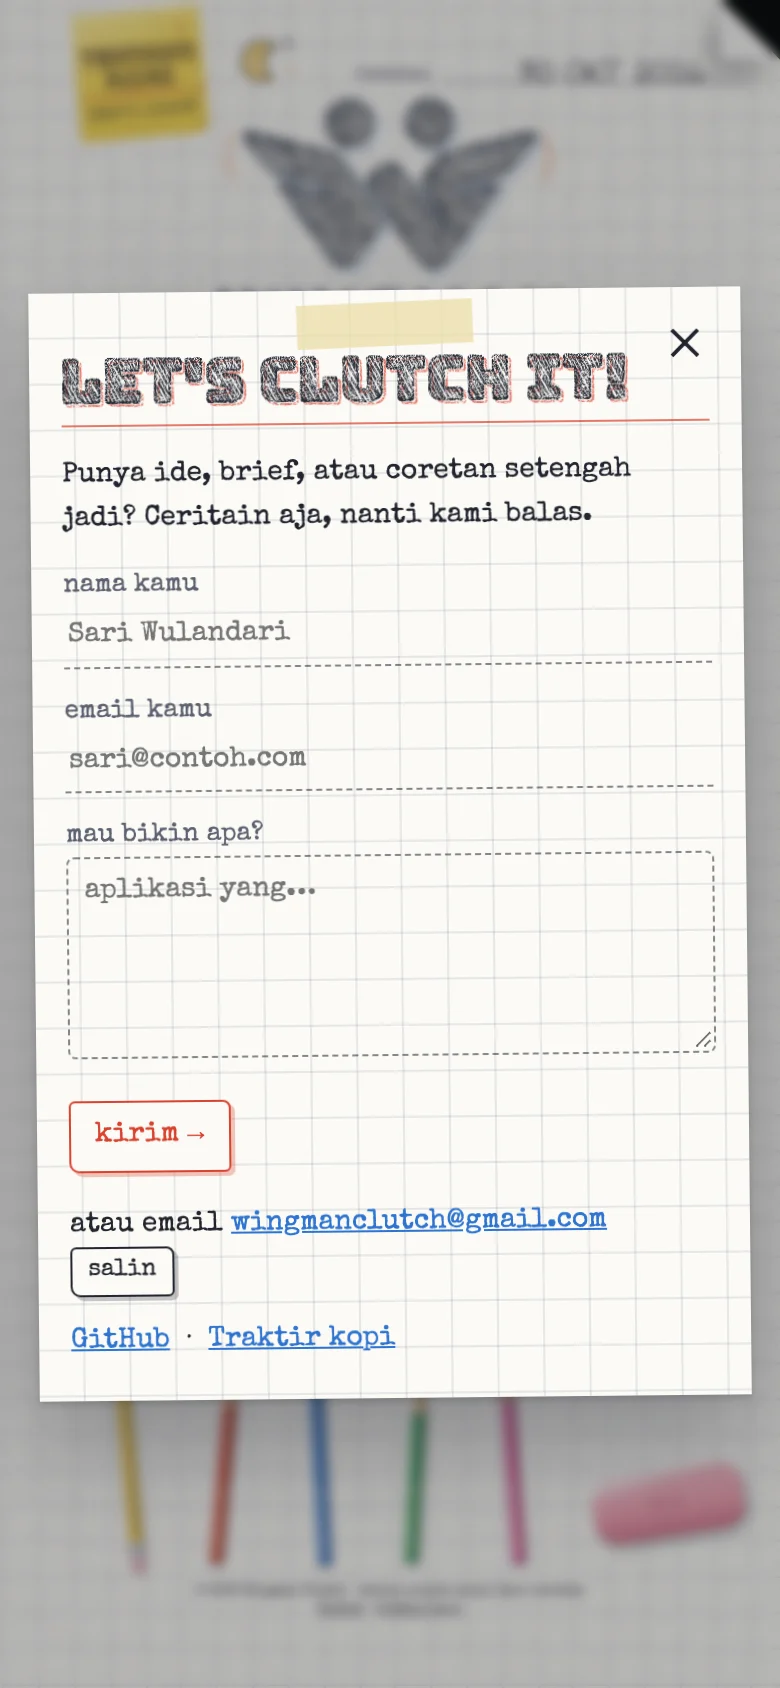
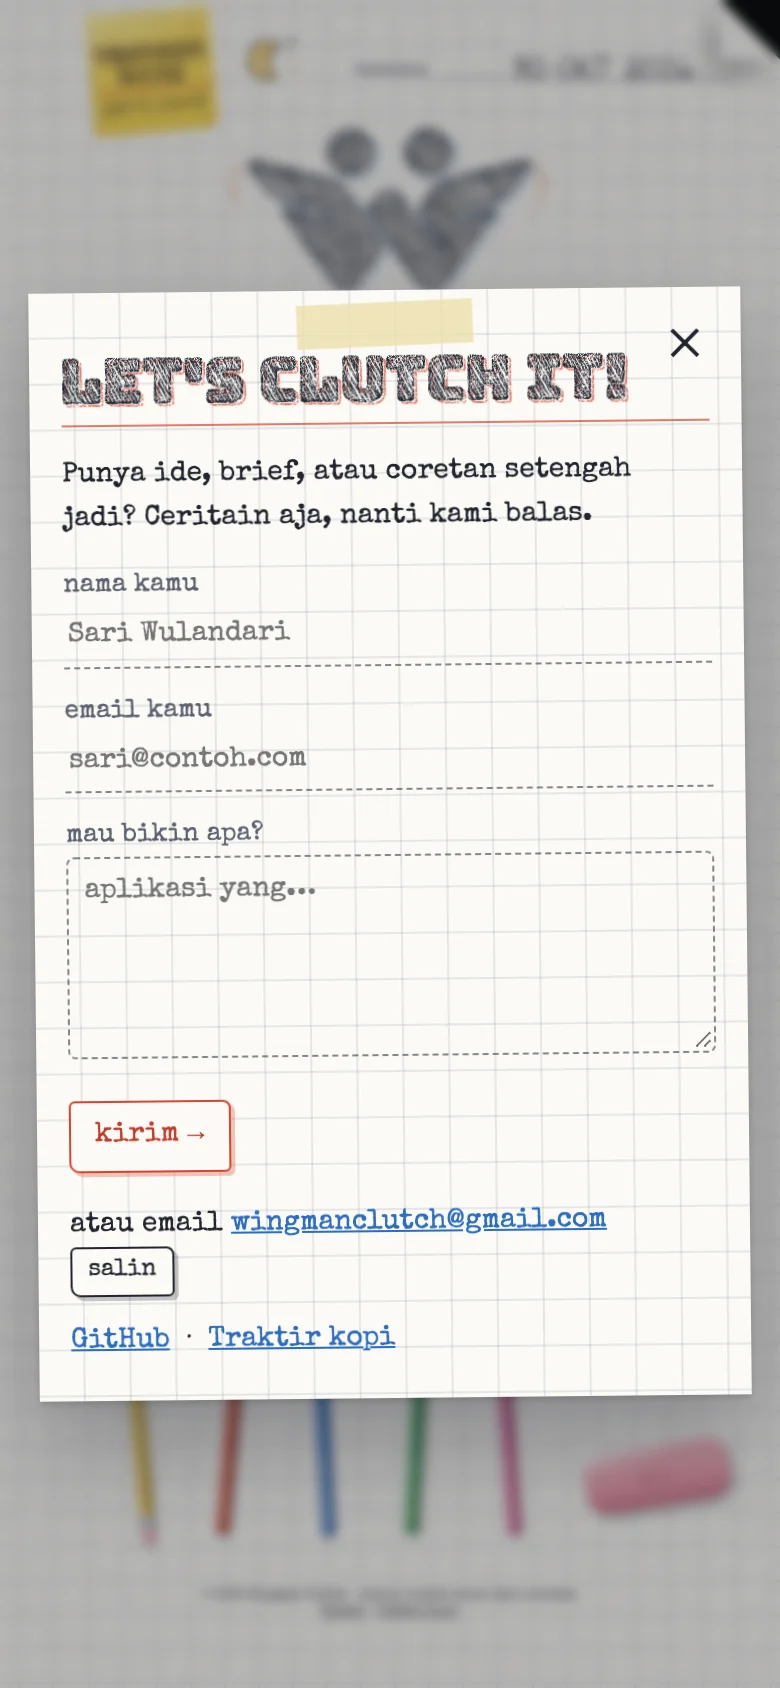
feat: pisahkan header, isi, dan kaki halaman di tata letak
Logo dan isi halaman dulu mulai setinggi kolom tanggal, jadi tanggal
tidak terbaca sebagai header, dan pensil serta penghapus menempel di
kaki halaman. Sekarang isi tengah turun dua kotak buku di lanskap (92
satuan) dan satu kotak di potret (46 satuan) lewat garis0 dan posisi y
mutlak. Stiker Tentang kami, kolom tanggal, dan saklar tema tetap di
atas sebagai header.

Tinggi adegan ditambah (lanskap 1000 -> 1112, potret 2180 -> 2273) dan
kaki halaman ikut turun, supaya jarak header ke isi dan isi ke kaki
halaman kurang lebih sama. Penghapus lanskap dinaikkan 10 satuan supaya
sejajar dengan ujung pensil.

Skrip di <head> ikut memakai tinggi dan posisi kaki halaman yang baru,
dan hash CSP-nya diganti. Gambar README dan gambar OG dibuat ulang.

diff --git a/apps/web/src/halaman/tata-letak.ts b/apps/web/src/halaman/tata-letak.ts
@@ -41,30 +41,30 @@ export interface TataLetak {
 }
 
 const PENSIL_LANSKAP: Pensil[] = [
-  { c: 'w', x: 420, y: 786, panjang: 270, r: -94 },
-  { c: 'r', x: 484, y: 800, panjang: 226, r: -86 },
-  { c: 'b', x: 548, y: 792, panjang: 244, r: -92 },
-  { c: 'g', x: 612, y: 804, panjang: 214, r: -88 },
-  { c: 'p', x: 676, y: 796, panjang: 232, r: -93 },
+  { c: 'w', x: 420, y: 878, panjang: 270, r: -94 },
+  { c: 'r', x: 484, y: 892, panjang: 226, r: -86 },
+  { c: 'b', x: 548, y: 884, panjang: 244, r: -92 },
+  { c: 'g', x: 612, y: 896, panjang: 214, r: -88 },
+  { c: 'p', x: 676, y: 888, panjang: 232, r: -93 },
 ]
 
 export const TATA: Record<'potret' | 'lanskap', TataLetak> = {
   potret: {
     W: 1000,
-    H: 2180,
-    garis0: 150,
+    H: 2273,
+    garis0: 196,
     tanggal: { x0: 566, x1: 962, y: 104 },
-    noda: [[880, 1520, 70, 3]],
-    kaki: 2060,
+    noda: [[880, 1566, 70, 3]],
+    kaki: 2153,
     tebalPensil: 122,
     pensil: [
-      { c: 'w', x: 162, y: 1880, panjang: 300, r: -95 },
-      { c: 'r', x: 286, y: 1894, panjang: 248, r: -85 },
-      { c: 'b', x: 410, y: 1886, panjang: 268, r: -93 },
-      { c: 'g', x: 534, y: 1900, panjang: 236, r: -87 },
-      { c: 'p', x: 658, y: 1892, panjang: 254, r: -94 },
+      { c: 'w', x: 162, y: 1926, panjang: 300, r: -95 },
+      { c: 'r', x: 286, y: 1940, panjang: 248, r: -85 },
+      { c: 'b', x: 410, y: 1932, panjang: 268, r: -93 },
+      { c: 'g', x: 534, y: 1946, panjang: 236, r: -87 },
+      { c: 'p', x: 658, y: 1938, panjang: 254, r: -94 },
     ],
-    penghapus: { x: 858, y: 1940, w: 196, h: 84, r: -9 },
+    penghapus: { x: 858, y: 1986, w: 196, h: 84, r: -9 },
     item: {
       tentang: { x: 96, y: 14, s: 0.74, r: -5 },
       tanggal: { x: 664, y: 104, s: 0.86 },
@@ -75,8 +75,8 @@ export const TATA: Record<'potret' | 'lanskap', TataLetak> = {
       gorute: { x: 556, baris: 16.6, s: 1.45, r: 2 },
       tikoem: { x: 100, baris: 25.4, s: 1.45, r: 2 },
       tookthel: { x: 548, baris: 25.4, s: 1.45, r: -2 },
-      kilau1: { x: 456, y: 700, s: 1 },
-      kilau2: { x: 452, y: 1120, s: 1.1, r: 20 },
+      kilau1: { x: 456, y: 746, s: 1 },
+      kilau2: { x: 452, y: 1166, s: 1.1, r: 20 },
       tim: { x: 385, baris: 29.6, s: 1.15, r: 1 },
       kontak: { x: 278, baris: 32.4, s: 0.852, r: -1 },
       petunjukPensil: { x: 690, baris: 35.3, s: 0.9, r: -2 },
@@ -84,16 +84,16 @@ export const TATA: Record<'potret' | 'lanskap', TataLetak> = {
   },
   lanskap: {
     W: 1700,
-    H: 1000,
-    garis0: 120,
+    H: 1112,
+    garis0: 212,
     // kolom tanggal dan saklar sengaja jauh di kanan supaya kepakan logo yang terakhir tidak
     // menimpa tulisan TANGGAL; saklar tetap di luar sudut yang terlipat
     tanggal: { x0: 1204, x1: 1494, y: 74 },
-    noda: [[1562, 908, 60, 7]],
-    kaki: 958,
+    noda: [[1562, 1000, 60, 7]],
+    kaki: 1070,
     tebalPensil: 60,
     pensil: PENSIL_LANSKAP,
-    penghapus: { x: 866, y: 880, w: 196, h: 84, r: -6 },
+    penghapus: { x: 866, y: 962, w: 196, h: 84, r: -6 },
     item: {
       tentang: { x: 352, y: 22, s: 0.72, r: -6 },
       tanggal: { x: 1242, y: 74, s: 0.8 },
@@ -107,9 +107,9 @@ export const TATA: Record<'potret' | 'lanskap', TataLetak> = {
       kontak: { x: 628, baris: 10, s: 0.852, r: -1 },
       tim: { x: 1094, baris: 10, s: 1, r: 2 },
       petunjukPensil: { x: 748, baris: 14, s: 1, r: -2 },
-      kopi: { x: 1050, y: 760, s: 0.8, r: 3 },
+      kopi: { x: 1050, y: 852, s: 0.8, r: 3 },
       rumus: { x: 396, baris: 10, s: 0.8, r: 2 },
-      kilau1: { x: 470, y: 616, s: 1.1, r: 10 },
+      kilau1: { x: 470, y: 708, s: 1.1, r: 10 },
     },
   },
 }

diff --git a/apps/web/index.html b/apps/web/index.html
@@ -11,7 +11,7 @@
     <meta name="theme-color" content="#f7f6f1" />
     <meta
       http-equiv="Content-Security-Policy"
-      content="default-src 'self'; script-src 'self' 'sha256-dpUZIIOBFPQIVZHQ6pUefCZ0hV1LVtQUCcCFRxmY194='; style-src 'self' 'unsafe-inline'; img-src 'self' data: blob:; font-src 'self'; connect-src 'self'; object-src 'none'; base-uri 'self'; form-action 'self'"
+      content="default-src 'self'; script-src 'self' 'sha256-PK6xKkFQwjIAH0x7ZyFS9zIYu6ZH/DPCIfzSfZwMLIA='; style-src 'self' 'unsafe-inline'; img-src 'self' data: blob:; font-src 'self'; connect-src 'self'; object-src 'none'; base-uri 'self'; form-action 'self'"
     />
     <meta property="og:type" content="website" />
     <meta property="og:site_name" content="Wingman Clutch" />
@@ -46,12 +46,12 @@
         var h = innerHeight
         var potret = w / h < 0.92
         var W = potret ? 1000 : 1700
-        var H = potret ? 2180 : 1000
+        var H = potret ? 2273 : 1112
         var k = Math.min(w / W, h / H)
         var atas = Math.min((h - H * k) * 0.25, 40)
         akar.dataset.tata = potret ? 'potret' : 'lanskap'
         akar.style.setProperty('--u', k + 'px')
-        akar.style.setProperty('--kaki', atas + ((potret ? 2060 : 958) - 14) * k + 'px')
+        akar.style.setProperty('--kaki', atas + ((potret ? 2153 : 1070) - 14) * k + 'px')
       })()
     </script>
   </head>

diff --git a/docs/frontend.md b/docs/frontend.md
@@ -41,7 +41,8 @@ data/              isi halaman (proyek.ts), font.json dan logo.json hasil skrip
 ### Satuan
 
 - **Satuan gambar.** Setiap sketsa perangkat dirancang di kotak 200 x 200, dengan label nama di garis dasar y = 236. Logo memakai koordinat logo brand (872 lebar).
-- **Satuan adegan.** Seluruh halaman: lanskap 1700 x 1000, potret 1000 x 2180. Garis kotak buku berjarak 46 satuan. `baris: n` di tata letak menaruh garis dasar tulisan sketsa tepat di garis buku ke-n.
+- **Satuan adegan.** Seluruh halaman: lanskap 1700 x 1112, potret 1000 x 2273. Garis kotak buku berjarak 46 satuan. `baris: n` di tata letak menaruh garis dasar tulisan sketsa tepat di garis buku ke-n.
+- **Tiga pita.** Header di atas berisi stiker Tentang kami, kolom tanggal, dan saklar tema. Kaki halaman ada di bawah. Sisanya (logo, empat aplikasi, kontak, tim, catatan, pensil, penghapus) berada di tengah, dengan jarak ke header dan ke kaki halaman yang kurang lebih sama. Adegan lebih tinggi dari referensi (1000 dan 2180) supaya ketiga pita itu terpisah jelas. Kalau isi tengah digeser, `garis0` ikut digeser kelipatan 46 supaya garis tanggal tetap di garis buku, dan posisi `y` mutlak ditambah selisih yang sama.
 - **Piksel.** Adegan diskalakan supaya muat di layar (`k` piksel per satuan adegan), lalu setiap sketsa diskalakan lagi dengan `s`.
 
 ### Menggambar sketsa
